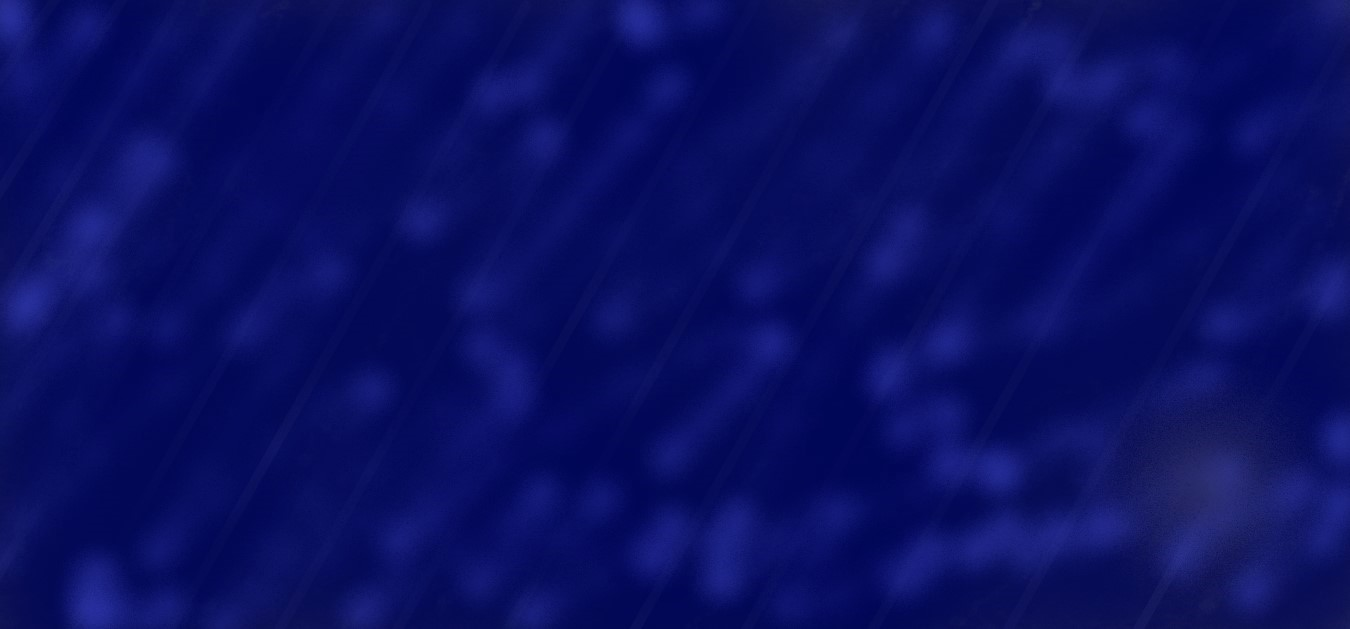
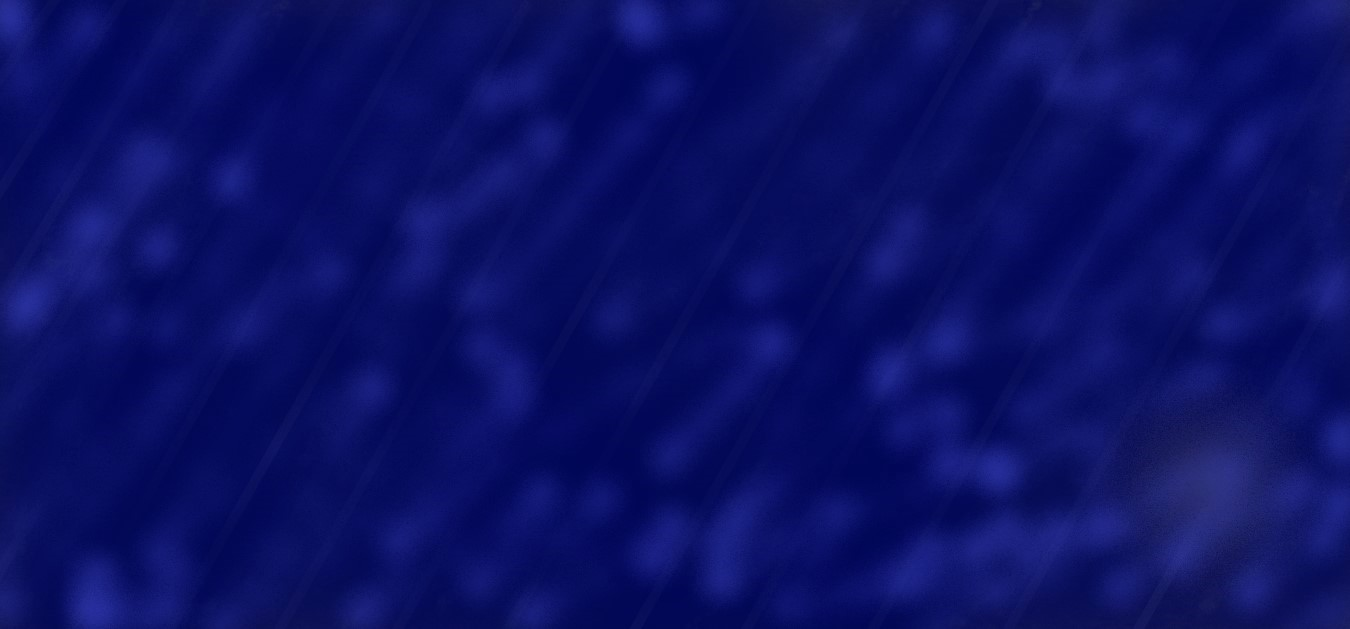
added google play badges to the app component

diff --git a/src/app/apps/apps.component.html b/src/app/apps/apps.component.html
@@ -13,6 +13,7 @@
         <p>Version 1.0 is available for Android, and requires an internet connection.</p>
         
         <h2>Android</h2>
+        <a href='https://play.google.com/store/apps/details?id=ca.tsilhqotinlanguage.tsilhqotindvb&pcampaignid=pcampaignidMKT-Other-global-all-co-prtnr-py-PartBadge-Mar2515-1'><img alt='Get it on Google Play' src='https://play.google.com/intl/en_us/badges/static/images/badges/en_badge_web_generic.png' width="200px"/></a>
         <p><a style="color: lawngreen" href="https://play.google.com/store/apps/details?id=ca.tsilhqotinlanguage.tsilhqotindvb" target="_blank">https://play.google.com/store/apps/details?id=ca.tsilhqotinlanguage.tsilhqotindvb</a></p>
         
         <h2>iOS</h2>
@@ -38,6 +39,7 @@
         <p>The Memory Match game is one of Bella’s favourite activities to bring to the schools. That inspired this digital app where you can build your vocabulary as you look for matches. Available for Android and iOS.</p>
         
         <h2>Android</h2>
+        <a href='https://play.google.com/store/apps/details?id=ca.tsilhqotinlanguage.memorymatch&pcampaignid=pcampaignidMKT-Other-global-all-co-prtnr-py-PartBadge-Mar2515-1'><img alt='Get it on Google Play' src='https://play.google.com/intl/en_us/badges/static/images/badges/en_badge_web_generic.png' width="200px"/></a>
         <p><a style="color: lawngreen;" href="https://play.google.com/store/apps/details?id=ca.tsilhqotinlanguage.memorymatch" target="_blank">https://play.google.com/store/apps/details?id=ca.tsilhqotinlanguage.memorymatch</a></p>
         
         <h2>iOS</h2>
@@ -51,6 +53,7 @@
         <p>This app goes along with the modernized Tŝilhqot’in Alphabet Poster. It can be used as a ’cheat sheet’ for the poster.</p>
         
         <h2>Android</h2>
+        <a href='https://play.google.com/store/apps/details?id=ca.tsilhqotinlanguage.tsilhqotinalphabet&pcampaignid=pcampaignidMKT-Other-global-all-co-prtnr-py-PartBadge-Mar2515-1'><img alt='Get it on Google Play' src='https://play.google.com/intl/en_us/badges/static/images/badges/en_badge_web_generic.png' width="200px"/></a>
         <p><a style="color: lawngreen;" href="https://play.google.com/store/apps/details?id=ca.tsilhqotinlanguage.tsilhqotinalphabet" target="_blank">https://play.google.com/store/apps/details?id=ca.tsilhqotinlanguage.tsilhqotinalphabet</a></p>
         
         <h2>iOS</h2>
@@ -62,6 +65,7 @@
         <p>Currently available on Android 7.0 + only. We are changing the technology on this one to reach a broader audience.</p>
         
         <h2>Android (7.0+)</h2>
+        <a href='https://play.google.com/store/apps/details?id=ca.tsilhqotinlanguage.qungh_7anaghunt_in&pcampaignid=pcampaignidMKT-Other-global-all-co-prtnr-py-PartBadge-Mar2515-1'><img alt='Get it on Google Play' src='https://play.google.com/intl/en_us/badges/static/images/badges/en_badge_web_generic.png' width="200px"/></a>
         <p><a style="color: lawngreen;" href="https://play.google.com/store/apps/details?id=ca.tsilhqotinlanguage.qungh_7anaghunt_in" target="_blank">https://play.google.com/store/apps/details?id=ca.tsilhqotinlanguage.qungh_7anaghunt_in</a></p>
         
         <p>This game features ’respond-to-command’ as well as ’word-builder’ interactions. The ’word-builder’ approach encourages learners to focus separately on the stem or prefix as opposed to trying to digest long verbs whole. It was implemented by Aaron Plahn based on his experience with the language acquisition of children Briseis and Dakota, who have been learning from their grandparents Tina and Mary Setah. They mastered the meaning of verb stems quite early, and only began to make sense of the prefixes much later. Some of the things they say are quite comical!</p>

diff --git a/src/app/footer/footer.component.html b/src/app/footer/footer.component.html
@@ -3,10 +3,10 @@
   </head>
   
   <div class="footer">
-    <div style="position: absolute; text-align: left; padding-top: 10px; font-size: 15px; padding-left: 15px; color: rgb(3, 3, 3);">© 2020 Tsilhqotin National Government. ALL RIGHTS RESERVED</div>
+    <div style="position: absolute; text-align: left; padding-top: 10px; font-size: 15px; padding-left: 15px; color: rgb(177, 177, 177);">© 2020 Tŝilhqotin National Government. ALL RIGHTS RESERVED</div>
     <a class="navbar-brand" href="http://www.tsilhqotin.ca" target="blank"><img src="https://datsan.openbroadcaster.pro/download.php?media_id=3034" target="_blank" height="40px" style="margin-top: -10px;"></a>
-    <a href="https://www.facebook.com/TsilhqotinNationalGovernment/" target="_blank"><i class="fa fa-facebook" style="font-size:30px;color:rgb(2, 0, 117)"></i></a>
-    <a href="https://twitter.com/tsilhqotin" target="_blank"><i class="fa fa-twitter" style="font-size:30px;color:rgb(2, 0, 117)"></i></a>
+    <a href="https://www.facebook.com/TsilhqotinNationalGovernment/" target="_blank"><i class="fa fa-facebook" style="font-size:30px;color:rgb(255, 255, 255)"></i></a>
+    <a href="https://twitter.com/tsilhqotin" target="_blank"><i class="fa fa-twitter" style="font-size:30px;color:rgb(255, 255, 255)"></i></a>
     <!--<a href="https://www.youtube.com/channel/UC2-7dFH9j_3CoOf-Wl0EmeA" target="_blank"><i class="fa fa-youtube" style="font-size:30px;color:white"></i></a>-->
-    <a href="https://github.com/Tsilhqot-in-National-Government" target="_blank"><i class="fa fa-github" style="font-size:30px;color:rgb(0, 0, 90)"></i></a>
+    <a href="https://github.com/Tsilhqot-in-National-Government" target="_blank"><i class="fa fa-github" style="font-size:30px;color:rgb(255, 255, 255)"></i></a>
   </div>

diff --git a/src/styles.css b/src/styles.css
@@ -18,8 +18,8 @@ body {
 #heading {
   background-image: url(~/assets/images/xeni.jpg);
   background-position: no-repeat center center fixed;
-  background-color: rgba(236, 236, 236, 0.568);
-    background-blend-mode: hue;
+  background-color: rgba(216, 216, 216, 0.753);
+    background-blend-mode: lighten;
     -webkit-background-size: cover;
     -moz-background-size: cover;
     -o-background-size: cover;
@@ -36,10 +36,10 @@ body {
     right: 0;
     overflow: auto;
     font-size: 16px;
-    padding-left: 100px;
-    padding-right: 100px;
-    color: rgba(1, 0, 83, 0.719);
-    background-color: rgb(209, 209, 209); /* For browsers that do not support gradients */
+    padding-left: 150px;
+    padding-right: 150px;
+    color: rgba(248, 248, 248, 0.719);
+    background-color: rgb(138, 138, 138); /* For browsers that do not support gradients */
   background-image: linear-gradient(to bottom right, white, rgb(180, 180, 180), white);
     margin-bottom: 65px;
 }
@@ -48,7 +48,7 @@ body {
   padding: 0px;
   margin-left: 0px;
   margin-right: 0px;
-  background: rgb(248, 248, 248);
+  background: rgb(20, 26, 107);
   box-shadow: 0px 0px 55px 5px rgb(143, 143, 143);
   min-height: 100%;
   padding-left: 5px;
@@ -58,8 +58,13 @@ body {
 h1 {
     padding-bottom: 35px;
     padding-top: 50px;
-    color: rgb(2, 0, 117);
     font-family: Arial, Helvetica, sans-serif;
+}
+
+#heading {
+  color: red;
+  -webkit-text-stroke-width: 1px;
+        -webkit-text-stroke-color: black;
 }
 
 /*

diff --git a/src/app/radioplayer/radioplayer.component.html b/src/app/radioplayer/radioplayer.component.html
@@ -1,5 +1,5 @@
 <div id="heading">
-    <h1 style="text-align: center;">Community Radio Project</h1>
+    <h1 style="text-align: center;color: red;">Community Radio Project</h1>
 </div> 
 
         <div class ="container" onclick="myFunction()">
@@ -13,4 +13,6 @@
     <p style="padding-top:20px;">
         We are an Indigenous broadcasting group supporting revitalization and restoration of Tŝilhqot’in language and culture while building on the need to discuss relevant indigenous issues on a shareable platform to thousands across the country. As the Tŝilhqot’in Nation won Aboriginal Title in the Supreme Court of Canada- a first in Canadian history- we broadcast important discussions relevant to First Nations, Inuit and Metis across Canada.
     </p>
+
+    
 

diff --git a/src/app/footer/footer.component.css b/src/app/footer/footer.component.css
@@ -10,12 +10,12 @@
     font-weight: 80;
     font-size: 20px;
     height: 65px;
-    background-color: grey;
-    background-image: linear-gradient(rgb(206, 206, 206), white);
+    background: url("/assets/images/unnamed.jpg") center;
+
     box-shadow: 0 -5px 5px -5px #333;
     z-index: 10;
     padding-right: 25px;
-    border-top: rgb(2, 0, 117) 5px solid;
+    border-top: rgb(0, 0, 0) 5px solid;
   }
   
   p {

diff --git a/src/app/navbar/navbar.component.css b/src/app/navbar/navbar.component.css
@@ -11,7 +11,7 @@
     display: block;
     color: white;
     padding: 0px;
-    background: url("/assets/images/unnamed.jpg");
+    background: url("/assets/images/unnamed.jpg") center;
     position: fixed;
     width: 100%;
 }
